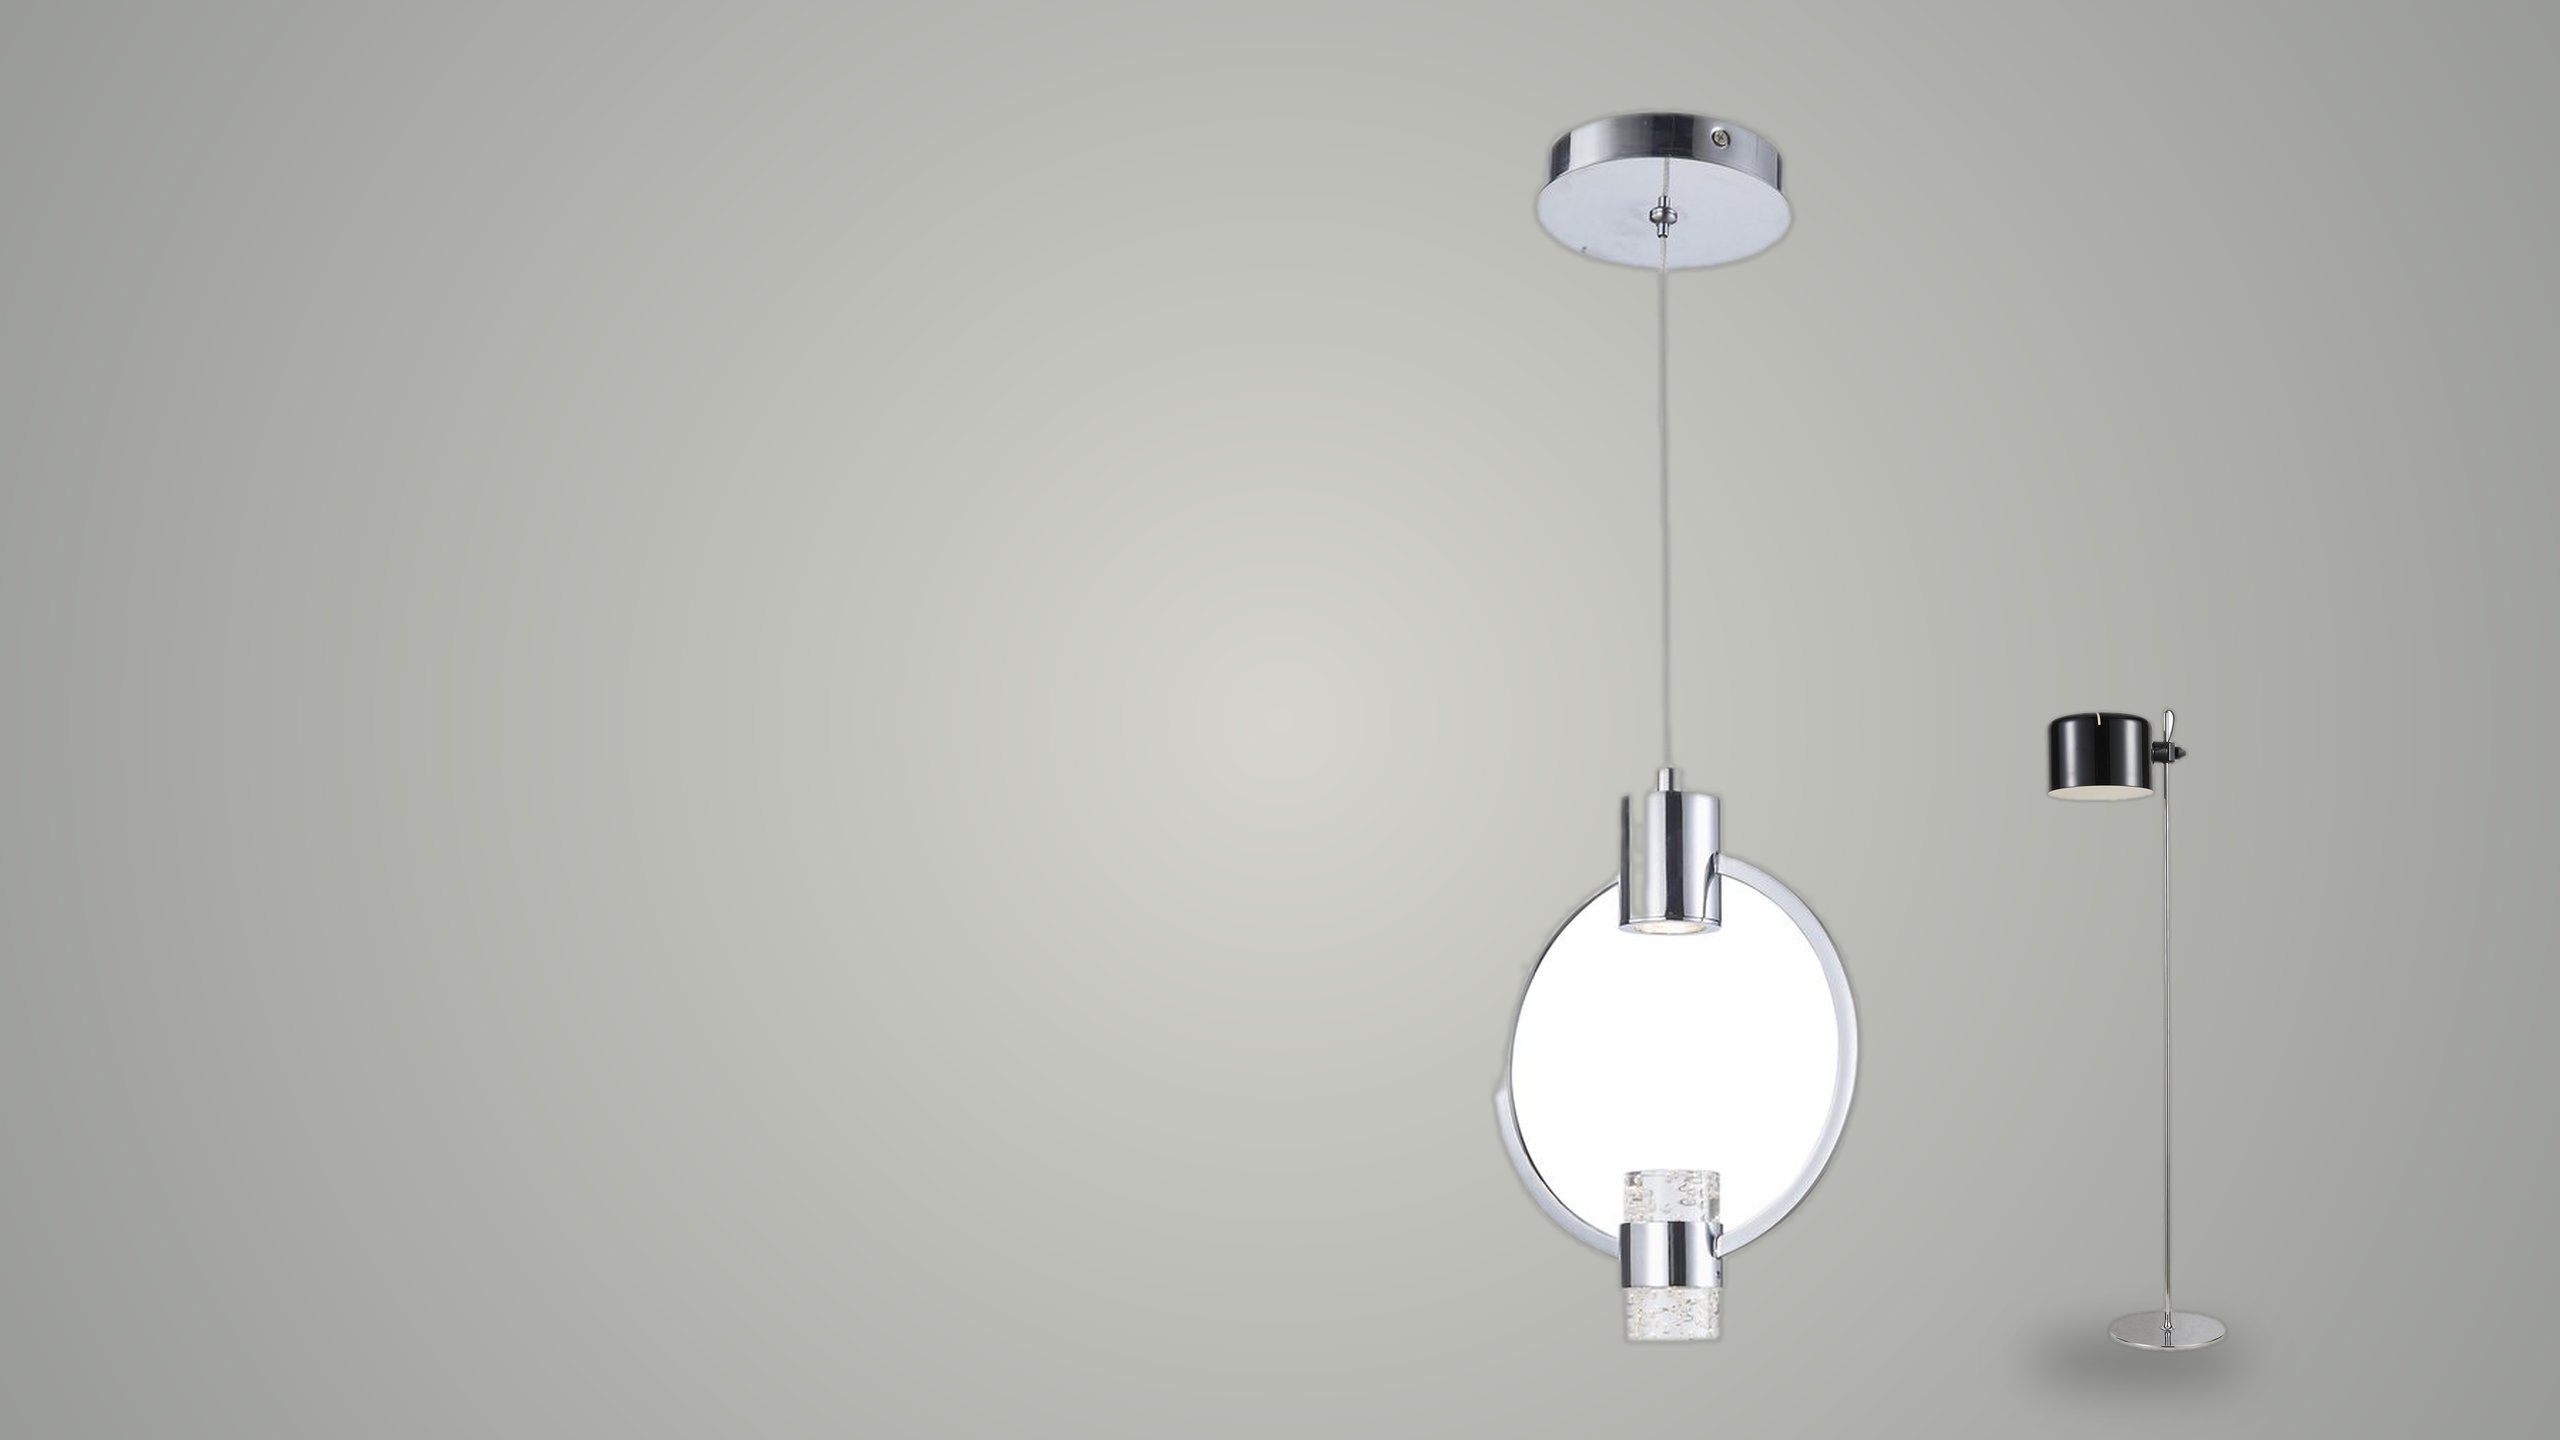
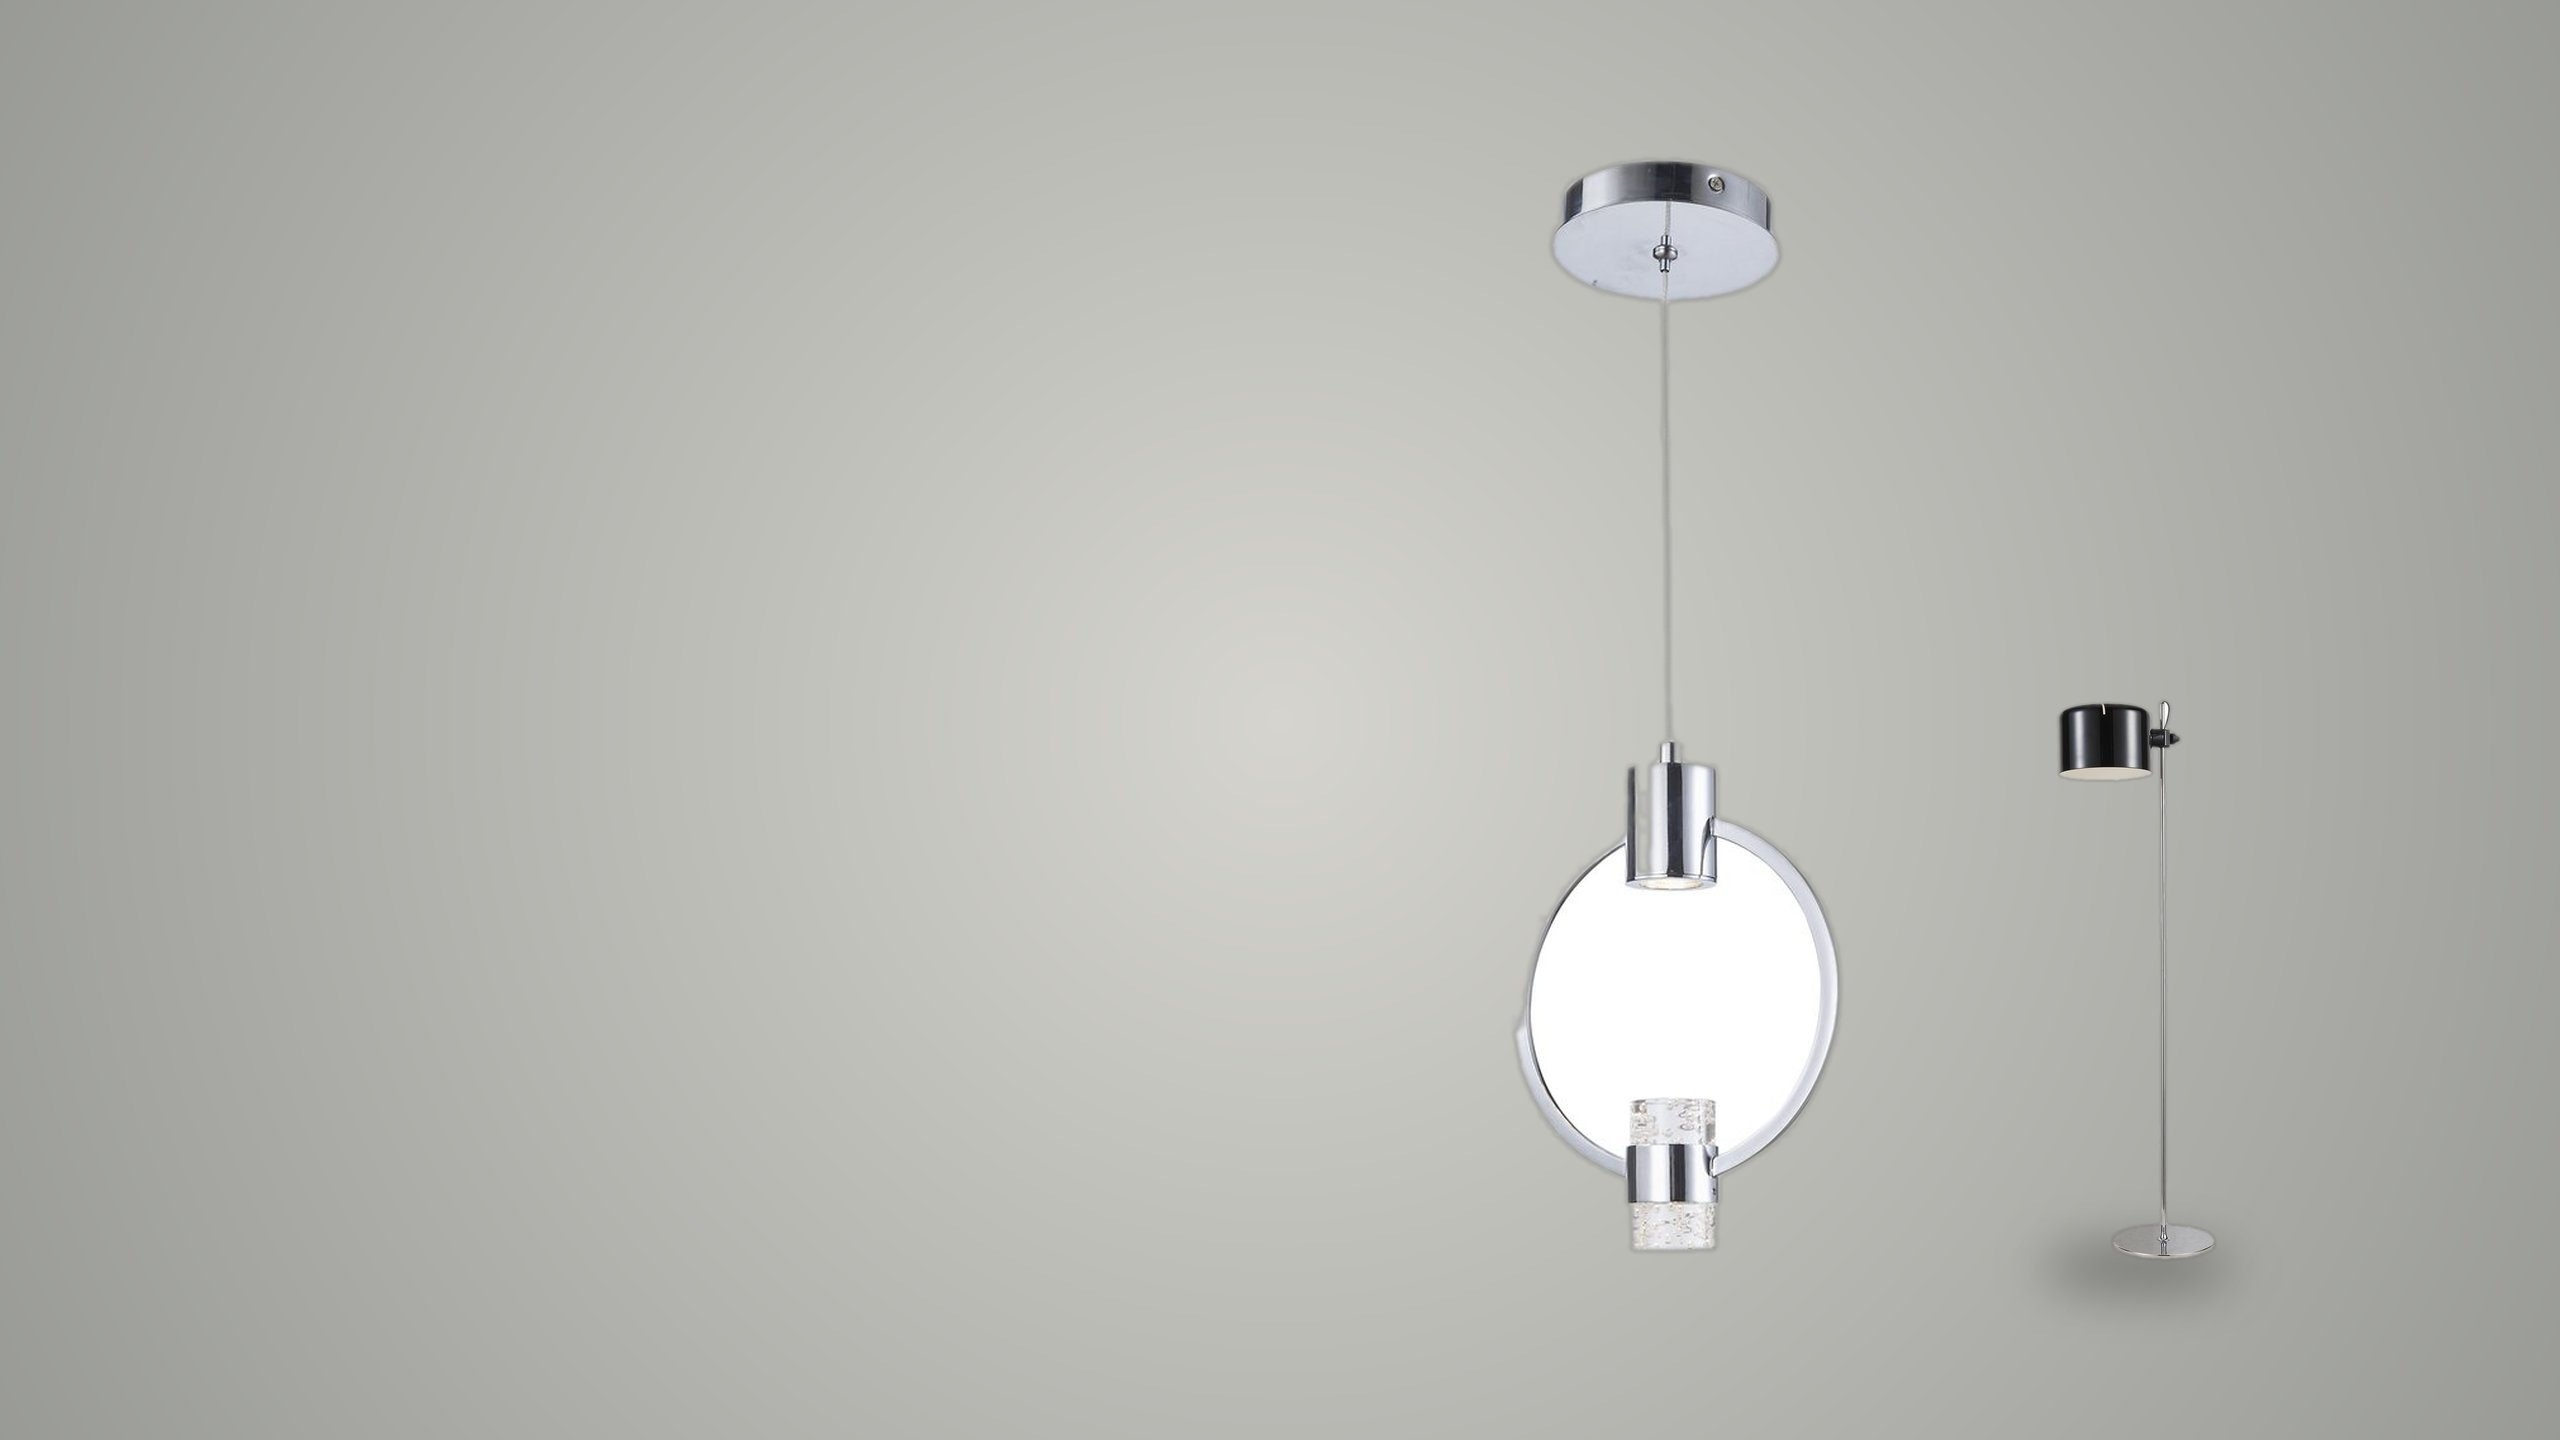
fix: keep hero fixtures inside the cover crop safe band
- product bottom at 0.88/0.90 so 82vh page heroes no longer clip the fixture
- centre object-position on desktop, 78% on mobile to follow the right cluster

diff --git a/layouts/_partials/head.html b/layouts/_partials/head.html
@@ -36,14 +36,14 @@
 <meta name="twitter:image" content="{{ $ogImage }}">
 <meta name="twitter:title" content="{{ $pageTitle }}">
 <meta name="twitter:description" content="{{ $desc }}">
-<link rel="icon" href="{{ "favicon.png" | absURL }}?v=20261112j" type="image/png" sizes="64x64">
-<link rel="icon" href="{{ "images/favicon-32.png" | absURL }}?v=20261112j" type="image/png" sizes="32x32">
-<link rel="icon" href="{{ "images/favicon-512.png" | absURL }}?v=20261112j" type="image/png" sizes="512x512">
-<link rel="apple-touch-icon" href="{{ "images/favicon-180.png" | absURL }}?v=20261112j">
+<link rel="icon" href="{{ "favicon.png" | absURL }}?v=20261112k" type="image/png" sizes="64x64">
+<link rel="icon" href="{{ "images/favicon-32.png" | absURL }}?v=20261112k" type="image/png" sizes="32x32">
+<link rel="icon" href="{{ "images/favicon-512.png" | absURL }}?v=20261112k" type="image/png" sizes="512x512">
+<link rel="apple-touch-icon" href="{{ "images/favicon-180.png" | absURL }}?v=20261112k">
 <link rel="preconnect" href="https://fonts.googleapis.com">
 <link rel="preconnect" href="https://fonts.gstatic.com" crossorigin>
 <link href="https://fonts.googleapis.com/css2?family=Inter+Tight:ital,wght@0,300;0,400;0,500;0,600;1,300&family=Instrument+Serif:ital@0;1&display=swap" rel="stylesheet">
-<link rel="stylesheet" href="{{ "css/upriem.css" | absURL }}?v=20261112j">
+<link rel="stylesheet" href="{{ "css/upriem.css" | absURL }}?v=20261112k">
 {{ partial "schema.html" . }}
 {{- with site.Params.cloudflareAnalyticsToken }}
 <script defer src="https://static.cloudflareinsights.com/beacon.min.js" data-cf-beacon='{"token":"{{ . }}"}'></script>

diff --git a/layouts/products/list.html b/layouts/products/list.html
@@ -16,7 +16,7 @@
   -}}
   {{- $heroFile := index $heroFiles .Params.seriesKey | default "hero-interior.jpg" -}}
   <section class="page-hero page-hero--media">
-    <div class="page-hero__media" aria-hidden="true"><img src="{{ (printf "images/%s" $heroFile) | absURL }}?v=20261112j" alt="" width="1200" height="900"></div>
+    <div class="page-hero__media" aria-hidden="true"><img src="{{ (printf "images/%s" $heroFile) | absURL }}?v=20261112k" alt="" width="1200" height="900"></div>
     <div class="page-hero__scrim" aria-hidden="true"></div>
     <div class="shell">
       {{ partial "breadcrumbs.html" $crumbs }}
@@ -99,7 +99,7 @@
 {{- else -}}
   {{- $series := .Sections -}}
   <section class="page-hero page-hero--media">
-    <div class="page-hero__media" aria-hidden="true"><img src="{{ "images/hero-collection.jpg" | absURL }}?v=20261112j" alt="" width="2560" height="1440"></div>
+    <div class="page-hero__media" aria-hidden="true"><img src="{{ "images/hero-collection.jpg" | absURL }}?v=20261112k" alt="" width="2560" height="1440"></div>
     <div class="page-hero__scrim" aria-hidden="true"></div>
     <div class="shell">
       {{ partial "breadcrumbs.html" (slice (dict "name" "Home" "url" ("" | absURL)) (dict "name" "Products" "url" .RelPermalink)) }}

diff --git a/layouts/index.html b/layouts/index.html
@@ -5,8 +5,8 @@
 
 <section class="hero">
   <div class="hero-media">
-    <img class="hero-img hero-img--on" src="{{ "images/hero-interior.jpg" | absURL }}?v=20261112j" alt="Chrome and opal glass pendant lights glowing against a dark wall" width="2560" height="1440" fetchpriority="high">
-    <img class="hero-img hero-img--off" src="{{ "images/hero-interior-off.jpg" | absURL }}?v=20261112j" alt="" width="2560" height="1440" loading="lazy" aria-hidden="true">
+    <img class="hero-img hero-img--on" src="{{ "images/hero-interior.jpg" | absURL }}?v=20261112k" alt="Chrome and opal glass pendant lights glowing against a dark wall" width="2560" height="1440" fetchpriority="high">
+    <img class="hero-img hero-img--off" src="{{ "images/hero-interior-off.jpg" | absURL }}?v=20261112k" alt="" width="2560" height="1440" loading="lazy" aria-hidden="true">
   </div>
   <div class="hero-scrim" aria-hidden="true"></div>
   <button class="lights-toggle" type="button" aria-pressed="false" aria-label="Switch the lights in the cover photograph off or on">

diff --git a/layouts/_partials/header.html b/layouts/_partials/header.html
@@ -3,8 +3,8 @@
   <div class="shell header-inner">
     <a class="brand" href="{{ "" | absURL }}" aria-label="{{ $brand }} home">
       <span class="brand-mark" aria-hidden="true">
-        <img class="bm-light"  src="{{ "images/logo-mark-light.png"  | absURL }}?v=20261112j" alt="" width="24" height="38" loading="eager">
-        <img class="bm-dark"   src="{{ "images/logo-mark-dark.png"   | absURL }}?v=20261112j" alt="" width="24" height="38" loading="eager">
+        <img class="bm-light"  src="{{ "images/logo-mark-light.png"  | absURL }}?v=20261112k" alt="" width="24" height="38" loading="eager">
+        <img class="bm-dark"   src="{{ "images/logo-mark-dark.png"   | absURL }}?v=20261112k" alt="" width="24" height="38" loading="eager">
       </span>
       <span class="brand-text">
         <span class="brand-name">Upriem</span>

diff --git a/static/css/upriem.css b/static/css/upriem.css
@@ -1676,9 +1676,9 @@ body.home.is-nav-dark .brand-mark .bm-dark  { opacity: 0; }
   width: 100%;
   height: 100%;
   object-fit: cover;
-  object-position: 50% 45%;
+  object-position: 50% 50%;
   transform: scale(1.001);
-  transform-origin: 50% 45%;
+  transform-origin: 50% 50%;
   transition: transform 1.4s var(--ease);
   will-change: transform;
 }
@@ -1773,7 +1773,7 @@ body.home.is-nav-dark .brand-mark .bm-dark  { opacity: 0; }
 
 @media (max-width: 860px) {
   .page-hero--media { padding: 122px 0 56px; min-height: clamp(440px, 92vw, 560px); }
-  .page-hero__media img { object-position: 74% 45%; }
+  .page-hero__media img { object-position: 78% 50%; }
   .page-hero__points { gap: 8px 22px; margin-top: 20px; font-size: .7rem; }
   .page-hero__points li { font-size: .68rem; }
   .page-hero__actions { margin-top: 26px; }

diff --git a/layouts/_default/single.html b/layouts/_default/single.html
@@ -2,7 +2,7 @@
 {{- $isBlog := eq .Section "blog" -}}
 <article class="page-single{{ if $isBlog }} is-post{{ end }}">
   <header class="page-hero page-hero--media">
-    <div class="page-hero__media" aria-hidden="true"><img src="{{ (.Params.heroImage | default "images/hero-interior-off.jpg") | absURL }}?v=20261112j" alt="" width="2560" height="1440"></div>
+    <div class="page-hero__media" aria-hidden="true"><img src="{{ (.Params.heroImage | default "images/hero-interior-off.jpg") | absURL }}?v=20261112k" alt="" width="2560" height="1440"></div>
     <div class="page-hero__scrim" aria-hidden="true"></div>
     <div class="shell{{ if $isBlog }} narrow{{ end }}">
       {{- if not .IsHome }}

diff --git a/layouts/contact/single.html b/layouts/contact/single.html
@@ -1,6 +1,6 @@
 {{ define "main" }}
 <section class="page-hero page-hero--contact page-hero--media">
-  <div class="page-hero__media" aria-hidden="true"><img src="{{ (.Params.heroImage | default "images/hero-contact.jpg") | absURL }}?v=20261112j" alt="" width="2560" height="1440"></div>
+  <div class="page-hero__media" aria-hidden="true"><img src="{{ (.Params.heroImage | default "images/hero-contact.jpg") | absURL }}?v=20261112k" alt="" width="2560" height="1440"></div>
   <div class="page-hero__scrim" aria-hidden="true"></div>
   <div class="shell">
     {{ partial "breadcrumbs.html" (slice (dict "name" "Home" "url" ("" | absURL)) (dict "name" "Contact" "url" .RelPermalink)) }}

diff --git a/layouts/_default/list.html b/layouts/_default/list.html
@@ -1,6 +1,6 @@
 {{ define "main" }}
 <section class="page-hero page-hero--media">
-  <div class="page-hero__media" aria-hidden="true"><img src="{{ (.Params.heroImage | default "images/hero-interior-off.jpg") | absURL }}?v=20261112j" alt="" width="2560" height="1440"></div>
+  <div class="page-hero__media" aria-hidden="true"><img src="{{ (.Params.heroImage | default "images/hero-interior-off.jpg") | absURL }}?v=20261112k" alt="" width="2560" height="1440"></div>
   <div class="page-hero__scrim" aria-hidden="true"></div>
   <div class="shell">
     {{ partial "breadcrumbs.html" (slice (dict "name" "Home" "url" ("" | absURL)) (dict "name" .Title "url" .RelPermalink)) }}

diff --git a/layouts/_partials/footer.html b/layouts/_partials/footer.html
@@ -2,7 +2,7 @@
 <footer class="site-footer">
   <div class="shell">
     <span class="footer-wordmark" aria-hidden="true">
-      <img src="{{ "images/logo-full-dark.png" | absURL }}?v=20261112j" alt="Upriem Lighting" width="185" height="200" style="max-height:190px;width:auto;display:block">
+      <img src="{{ "images/logo-full-dark.png" | absURL }}?v=20261112k" alt="Upriem Lighting" width="185" height="200" style="max-height:190px;width:auto;display:block">
     </span>
 
     <div class="footer-grid">

diff --git a/layouts/_partials/series-visual.html b/layouts/_partials/series-visual.html
@@ -9,6 +9,6 @@
 -}}
 {{- $file := index $files $key | default "hero-interior.jpg" -}}
 <div class="series-card__visual">
-  <img src="{{ (printf "images/%s" $file) | absURL }}?v=20261112j" alt="{{ .Params.seriesName }} by Upriem" loading="lazy" width="1200" height="900">
+  <img src="{{ (printf "images/%s" $file) | absURL }}?v=20261112k" alt="{{ .Params.seriesName }} by Upriem" loading="lazy" width="1200" height="900">
   <span class="series-card__name">{{ .Params.seriesName }}</span>
 </div>
